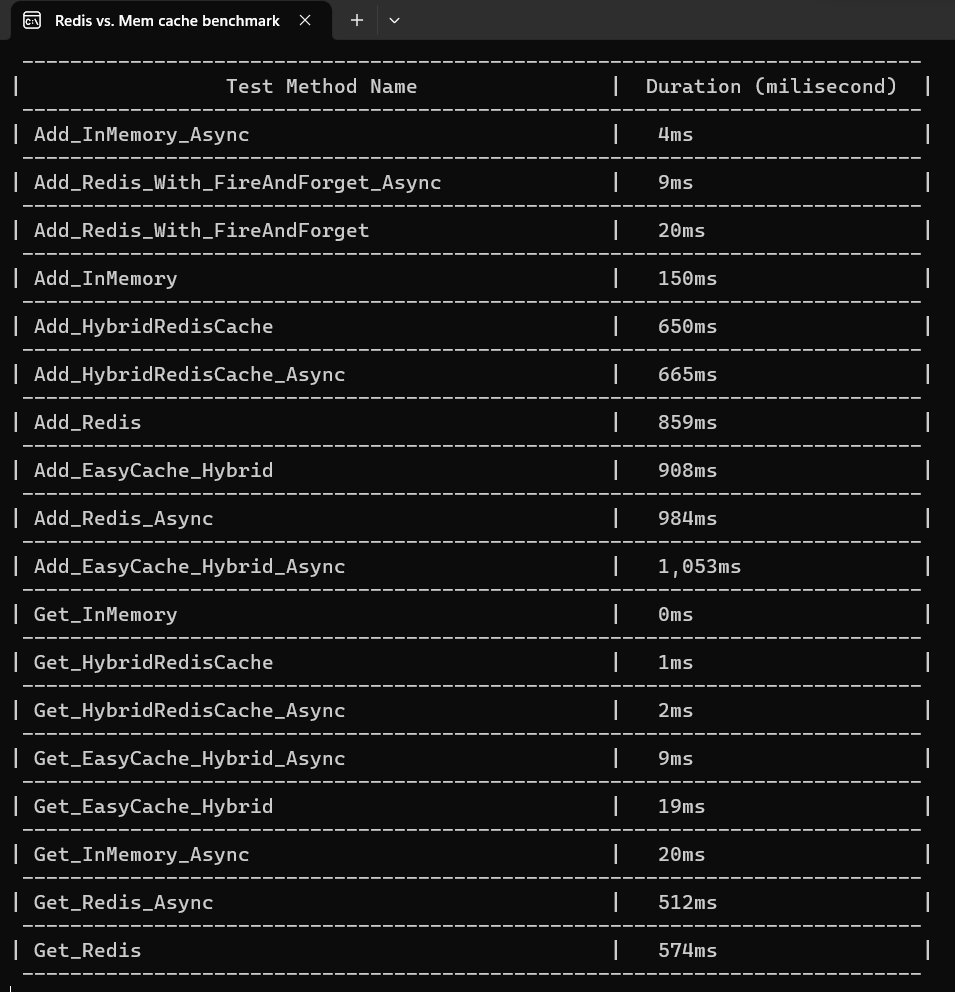
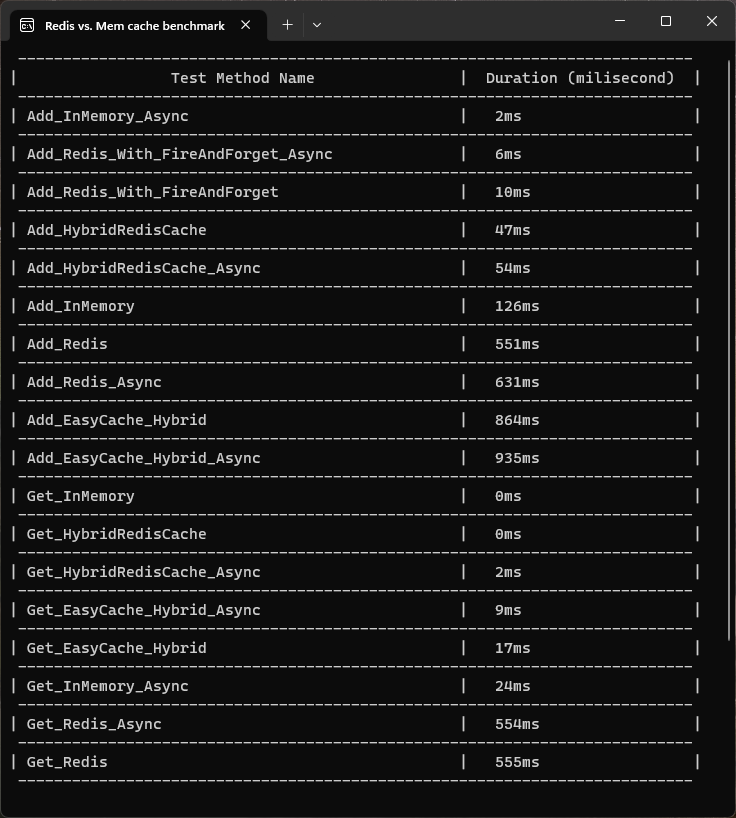
improved publish bus performance

Changed region(s): [[0.0, 0.0, 1.0, 1.0], [0.25, 0.9169, 0.5625, 0.9474], [0.9062, 0.9169, 0.9688, 0.9474]]

diff --git a/src/HybridRedisCache.Benchmark/BenchmarkManager.cs b/src/HybridRedisCache.Benchmark/BenchmarkManager.cs
@@ -39,10 +39,11 @@ public class BenchmarkManager
         _hybridCache = new HybridCache(new HybridCachingOptions()
         {
             InstancesSharedName = nameof(BenchmarkManager),
-            DefaultDistributedExpirationTime = TimeSpan.FromDays(1),
-            DefaultLocalExpirationTime = TimeSpan.FromMinutes(10),
+            DefaultDistributedExpirationTime = TimeSpan.FromMinutes(120),
+            DefaultLocalExpirationTime = TimeSpan.FromMinutes(120),
             RedisCacheConnectString = $"{redisIP}:{redisPort}",
-            ThrowIfDistributedCacheError = false
+            ThrowIfDistributedCacheError = false,
+            BusRetryCount = 0
         });
     }
 
@@ -115,7 +116,7 @@ public class BenchmarkManager
     {
         // write cache
         for (var i = 0; i < RepeatCount; i++)
-            _hybridCache.Set(KeyPrefix + i, _data[i], TimeSpan.FromSeconds(ExpireDurationSecond), fireAndForget: true);
+            _hybridCache.Set(KeyPrefix + i, _data[i], TimeSpan.FromSeconds(ExpireDurationSecond), TimeSpan.FromSeconds(ExpireDurationSecond), fireAndForget: true);
     }
 
     [Benchmark]
@@ -123,7 +124,7 @@ public class BenchmarkManager
     {
         // write cache
         for (var i = 0; i < RepeatCount; i++)
-            await _hybridCache.SetAsync(KeyPrefix + i, _data[i], TimeSpan.FromSeconds(ExpireDurationSecond), fireAndForget: true);
+            await _hybridCache.SetAsync(KeyPrefix + i, _data[i], TimeSpan.FromSeconds(ExpireDurationSecond), TimeSpan.FromSeconds(ExpireDurationSecond), fireAndForget: true);
     }
 
     [Benchmark]

diff --git a/src/HybridRedisCache/HybridCache.cs b/src/HybridRedisCache/HybridCache.cs
@@ -609,7 +609,7 @@ public class HybridCache : IHybridCache, IDisposable
         {
             // include the instance ID in the pub/sub message payload to update another instances
             var message = new CacheInvalidationMessage(_instanceId, cacheKeys);
-            await _redisDb.PublishAsync(InvalidationChannel, Serialize(message)).ConfigureAwait(false);
+            await _redisDb.PublishAsync(InvalidationChannel, Serialize(message), CommandFlags.FireAndForget).ConfigureAwait(false);
         }
         catch
         {
@@ -629,7 +629,7 @@ public class HybridCache : IHybridCache, IDisposable
         {
             // include the instance ID in the pub/sub message payload to update another instances
             var message = new CacheInvalidationMessage(_instanceId, cacheKeys);
-            _redisDb.Publish(InvalidationChannel, Serialize(message));
+            _redisDb.Publish(InvalidationChannel, Serialize(message), CommandFlags.FireAndForget);
         }
         catch
         {
